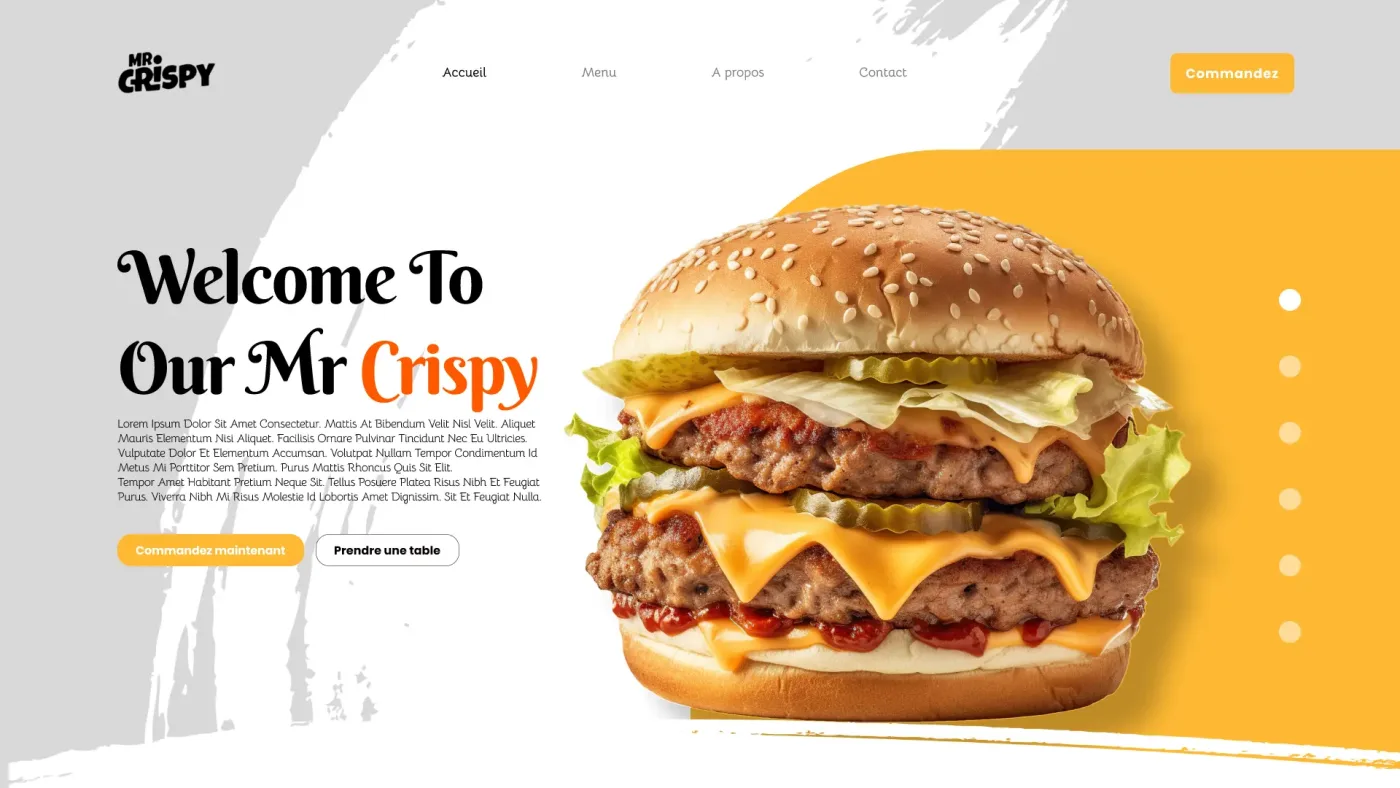
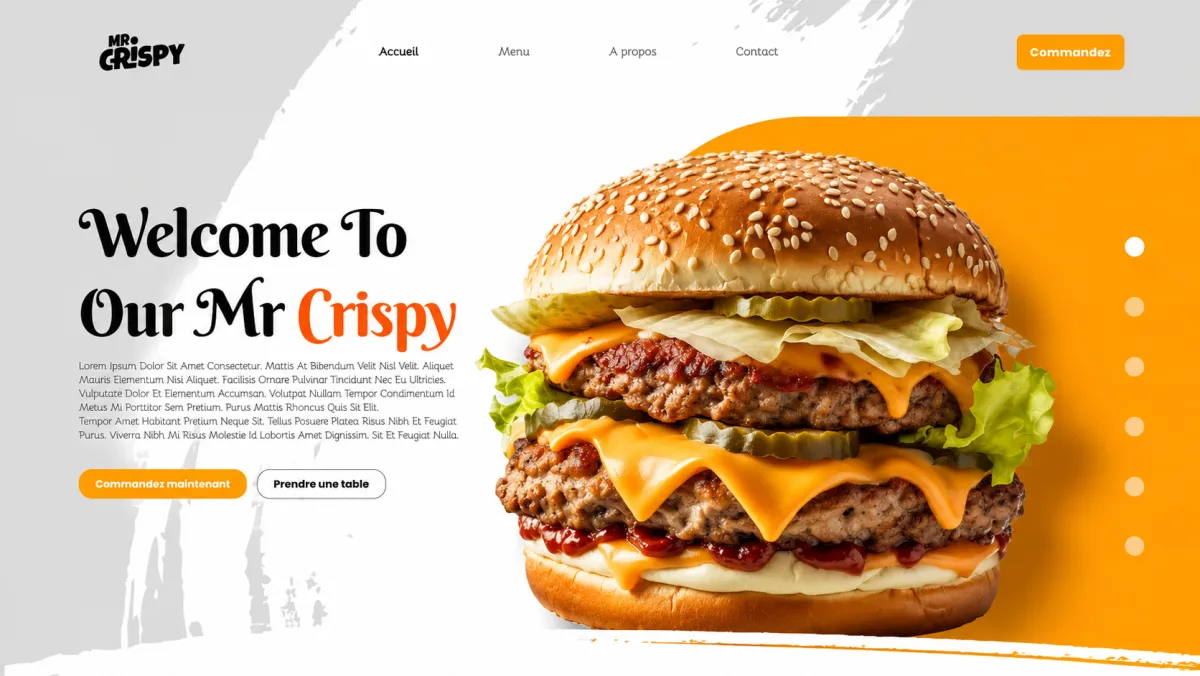
fix: nouveau visuel Crispy (bento) + fenêtre nuit fondue dans le fond
- Bento "Un aperçu de ce que je fabrique" : nouveau crispy2.png (hero burger
  propre, paysage) régénéré en webp
- Section "la ville dort" : masque radial sur l'image fenêtre → bords estompés,
  plus de rectangle visible, intégration transparente dans le fond noir

diff --git a/redesign.css b/redesign.css
@@ -386,7 +386,9 @@ button { font-family: inherit; }
 /* ---- Section "fenêtre" : illustration sur fond noir, bords fondus ---- */
 .moodshot { position: relative; background: #000; padding-block: clamp(70px, 12vh, 160px); overflow: hidden; }
 .moodshot__inner { position: relative; z-index: 2; display: grid; grid-template-columns: 1fr auto 1fr; align-items: center; gap: clamp(20px, 4vw, 60px); }
-.moodshot__img { grid-column: 2; width: min(440px, 70vw); height: auto; will-change: transform, filter; position: relative; z-index: 2; }
+.moodshot__img { grid-column: 2; width: min(440px, 70vw); height: auto; will-change: transform, filter; position: relative; z-index: 2;
+  -webkit-mask-image: radial-gradient(ellipse 72% 82% at 50% 48%, #000 46%, rgba(0,0,0,0.4) 74%, transparent 96%);
+  mask-image: radial-gradient(ellipse 72% 82% at 50% 48%, #000 46%, rgba(0,0,0,0.4) 74%, transparent 96%); }
 /* Ambiance nocturne continue */
 .moodshot__aura { position: absolute; left: 50%; top: 50%; width: min(620px, 90vw); aspect-ratio: 1; transform: translate(-50%, -50%); border-radius: 50%; background: radial-gradient(circle, rgba(255,72,72,0.26), rgba(80,120,255,0.14) 46%, transparent 70%); filter: blur(34px); z-index: 1; pointer-events: none; }
 .moodshot__fireflies { position: absolute; inset: 0; z-index: 1; pointer-events: none; overflow: hidden; }